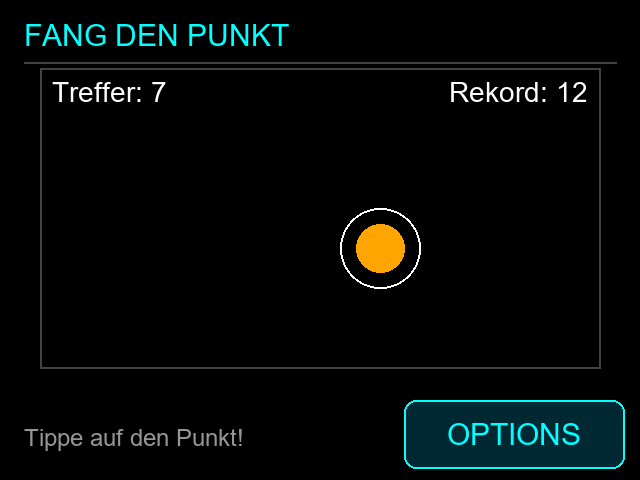
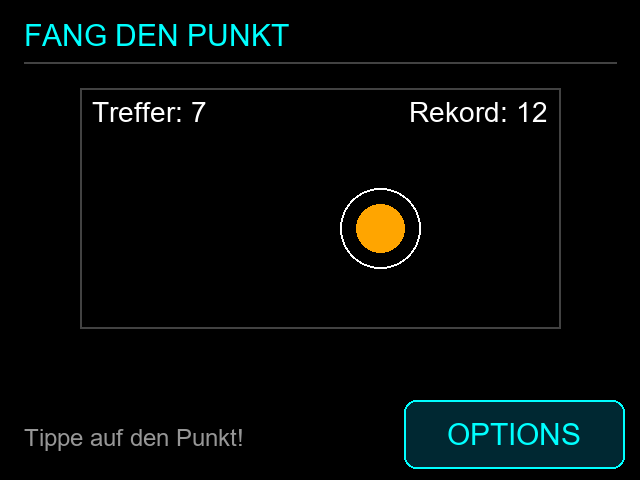
Game: smaller 240x120 field so canvas fits in memory

diff --git a/scripts/make_tutorial_images.py b/scripts/make_tutorial_images.py
@@ -100,12 +100,12 @@ rect(d, 12, 9, 296, 22, outline=GREEN)
 text(d, (300, 36), "appDrawHome", 12, GREEN, "ra")
 save(img, "uhr-layout.png")
 
-cx, cy = 190, 124
+cx, cy = 40 + 150, 44 + 70
 img, d = new()
 header(d, "FANG DEN PUNKT")
-rect(d, 20, 34, 280, 150, outline=LINE)
-text(d, (26, 38), "Treffer: 7", 14, WHITE)
-text(d, (294, 38), "Rekord: 12", 14, WHITE, "ra")
+rect(d, 40, 44, 240, 120, outline=LINE)
+text(d, (46, 48), "Treffer: 7", 14, WHITE)
+text(d, (274, 48), "Rekord: 12", 14, WHITE, "ra")
 target(d, cx, cy)
 text(d, (12, 212), "Tippe auf den Punkt!", 12, MUTED)
 options_button(d)
@@ -113,10 +113,10 @@ save(img, "spiel-ergebnis.png")
 
 img, d = new()
 header(d, "FANG DEN PUNKT")
-rect(d, 20, 34, 280, 150, outline=RED)
+rect(d, 40, 44, 240, 120, outline=RED)
 target(d, cx, cy)
 options_button(d)
-text(d, (24, 186), "Canvas 280x150 bei (20,34)", 12, RED)
+text(d, (44, 166), "Canvas 240x120 bei (40,44)", 12, RED)
 rect(d, cx - 28, cy - 28, 56, 56, outline=GREEN)
 text(d, (cx + 30, cy - 30), "Trefferzone R+8", 11, GREEN)
 save(img, "spiel-layout.png")

diff --git a/tutorial/spiel/app.cpp b/tutorial/spiel/app.cpp
@@ -11,10 +11,12 @@
 
 namespace {
 
-constexpr int16_t FIELD_X = 20;
-constexpr int16_t FIELD_Y = 34;
-constexpr int16_t FIELD_WIDTH = 280;
-constexpr int16_t FIELD_HEIGHT = 150;
+// 240x120 = 28 KB: groesser findet im Profil mit Framebuffer (esp32dev-fast)
+// keinen zusammenhaengenden Speicher mehr.
+constexpr int16_t FIELD_X = 40;
+constexpr int16_t FIELD_Y = 44;
+constexpr int16_t FIELD_WIDTH = 240;
+constexpr int16_t FIELD_HEIGHT = 120;
 constexpr int16_t TARGET_RADIUS = 20;
 // Etwas grosszuegiger als der sichtbare Kreis: Finger sind dicker als Pixel.
 constexpr int16_t TOUCH_TOLERANCE = 8;

diff --git a/docs/tutorial-spiel.md b/docs/tutorial-spiel.md
@@ -46,8 +46,8 @@ Alles Eigene kommt in [`src/app.cpp`](../src/app.cpp). Touch, Display und Speich
 #include "ui.h"         // currentScreen()
 
 namespace {
-constexpr int16_t FIELD_X = 20, FIELD_Y = 34;
-constexpr int16_t FIELD_WIDTH = 280, FIELD_HEIGHT = 150;
+constexpr int16_t FIELD_X = 40, FIELD_Y = 44;
+constexpr int16_t FIELD_WIDTH = 240, FIELD_HEIGHT = 120;
 constexpr int16_t TARGET_RADIUS = 20;
 constexpr int16_t TOUCH_TOLERANCE = 8;
 constexpr uint16_t FRAME_INTERVAL_MS = 33;       // ca. 30 Bilder/s
@@ -74,7 +74,7 @@ void appSetup() {
 }
 ```
 
-**Warum die `8`?** Die letzte Zahl ist die Farbtiefe. 8 Bit halbiert den Speicher (42 KB statt 84 KB). Der Preis: sehr dunkle Farben werden schwarz. Das Spielfeld ist schwarz mit hellen Farben, also passt das. (Eine Uhr mit dunkelgrauem Hintergrund bräuchte 16 Bit.)
+**Warum die `8`?** Die letzte Zahl ist die Farbtiefe. 8 Bit halbiert den Speicher (hier 28 KB statt 57 KB). Der Preis: sehr dunkle Farben werden schwarz. Das Spielfeld ist schwarz mit hellen Farben, also passt das. Die Feldgröße ist begrenzt: Ein 280×150-Feld (42 KB am Stück) fand auf dem Test-CYD keinen Speicher (Log: `could not allocate`, größter freier Block ca. 34 KB). Deshalb 240×120.
 
 ## 4. Punkt bewegen und Runde beenden (5 min)
 
